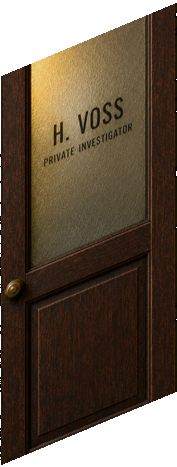
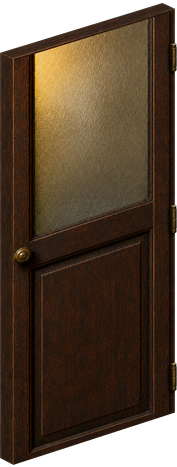
Refine internal office door hinge depth

Changed region(s): [[0.0, 0.0, 1.0, 1.0], [0.7627, 0.6296, 0.791, 0.7495]]

diff --git a/RainShadow Shared/Scenes/DetectiveOffice/DetectiveOfficeScene.swift b/RainShadow Shared/Scenes/DetectiveOffice/DetectiveOfficeScene.swift
@@ -1279,7 +1279,8 @@ final class DetectiveOfficeScene: BaseGameScene {
         occlusionRoot.addChild(void)
     }
 
-    /// Frosted internal door, swung open into the private office. Its sheared
+    /// Plain frosted internal door, swung open into the private office. The
+    /// sprite carries its own hinge barrels and shaded return face; its sheared
     /// texture remains at plate scale so the hinge jamb stays flush with the shell.
     private func addInternalOfficeDoor() {
         guard let door = addDepthProp(

diff --git a/ArtSource/Prompts/GenerationLog.md b/ArtSource/Prompts/GenerationLog.md
@@ -198,6 +198,7 @@ All prompts use the supplied Baldur's Gate-era screenshots as style-analysis ref
 - **Office entrance V10.3 / integrated doorway and floor-projected fall (2026-07-26):** user review found that the separate frame and screen-plane door fall read as a pasted cutout, while the adjacent coat rack resembled oversized bright hinge hardware. A built-in Image Generator edit repainted only the registered doorway crop with slim wall-owned walnut jambs, inner reveal, plaster returns, threshold, and contact occlusion; `process_office_door_architecture_v103.py` feather-bakes the patch into all suite plates and re-punches the approved black aperture. Runtime removes the freestanding frame sprite, adds a generated dark edge extrusion, moves the rack clear, and uses a three-stage projective warp plus restrained floor shadow for the falling leaf. Exact prompt and asset chain: `Prompts/office_door_integrated_v103.md`.
 - **Office entrance leaf V10.4 / complete top rail (2026-07-26):** review correctly identified that the closed leaf looked sliced off at the top. The V10.2 master was substantially taller than the approved 2.2:1 aperture, so cover-fit processing cropped away its top and bottom rails. A built-in Image Generator edit rebuilt the same dark leaf close to the aperture proportion with a complete 6–8% walnut top rail and preserved H. VOSS lettering. Processing now normalizes this complete construction without cover-cropping, and the closed registration leaves a six-pixel dark header reveal. Prompt: `Prompts/office_door_complete_top_rail_v104.md`.
 - **Office entrance leaf V10.5 / purpose-built fallen state (2026-07-29):** the projective warp of the upright front elevation still read as a billboard when Lila knocked the door down. The built-in Image Generator used the V10.4 leaf as identity/text authority and the current fallen office capture as camera authority to render a separate face-up floor state with thick walnut stiles and rails, a deeply recessed lower panel, aged knob, bottom/latch thickness, and torn hinge hardware. Chroma removal sampled the border field with soft matte and despill; `process_office_door_fallen_v105.py` produces the centered 768×512 runtime texture. SpriteKit retains the registered upright leaf throughout the fall, swaps to the generated floor projection on impact, and restores the old warp only for the return animation. Prompt: `Prompts/office_door_fallen_v105.md`.
+- **Plain internal door hinge-depth V02 (2026-07-30):** user review found the open internal leaf read as a flat lettered billboard and duplicated the character name already present on the entrance door. The built-in Image Generator preserved the dark walnut/frosted-glass construction while removing every letter, adding a shaded top and right-hand return face, and adding three restrained period brass hinge barrels on the correct knob-opposite edge. Chroma removal used border sampling, soft matte, and despill; the result was fitted back into the exact 177×467 runtime canvas so scene placement, scale, and pathing remain unchanged. Sources: `office_internal_door_leaf_depth_{chroma,rgba,fitted}_v02.png`; prompt: `Prompts/office_internal_door_depth_v02.md`.
 
 - **BG-noir UI chrome V02 (2026-07-27):** full Infinity Engine layout hierarchy with original film-noir materials. Cursor Image Generator masters for left/right HUD rails, 12 action icons, 3 party utilities, portrait bezel v02, dialogue frame v03 + command plate + scrollbar suite v02, inventory frame v02 + 8 slot silhouettes, journal casebook plate v02 + row marker, and shared close box `ui_close_box_noir_v02`. Processed via `process_ui_chrome_v02.py` into `Resources/Art/UI/**`. GDD §11 and AssetManifest §8 updated for painted-chrome contract. Prompt notes: `Prompts/hud_chrome_v02.md`.
 - **BG-noir UI chrome V03 (2026-07-27):** full V03 art regeneration for closer Baldur’s Gate layout weight with original noir materials (gunmetal, smoked leather, oxblood, Art Deco filigree — no franchise frame copy). Style-lock composite plus HUD rails/icons/portrait frame, dialogue plaque `dialogue_outer_frame_overlay_v04` + command plate + scrollbar suite, inventory outer frame + silhouettes, journal casebook + row marker, map top bar, and `ui_close_box_noir_v03`. Processed via `process_ui_chrome_v03.py`. Swift loaders retargeted in ActionBar/PortraitBar/Inventory/Journal/AreaMap/Dialogue. Prompt contract: `Prompts/ui_chrome_v03.md`.

diff --git a/ArtSource/Prompts/office_internal_door_depth_v02.md b/ArtSource/Prompts/office_internal_door_depth_v02.md
@@ -1,0 +1,43 @@
+# Plain internal door with hinge depth V02
+
+- Generated: 2026-07-30
+- Mode: built-in Image Generator edit + chroma-key removal
+- Use case: `precise-object-edit`
+- Runtime asset: `Resources/Art/Props/Office/office_internal_door_leaf.png`
+- Runtime contract: 177×467 RGBA, matching the previous sprite canvas and anchor footprint
+
+## Reference roles
+
+- `RainShadow Shared/Resources/Art/Props/Office/office_internal_door_leaf.png` (pre-V02): edit target, projection, material, and texture authority.
+- User office close-up (`Screenshot 2026-07-30 at 11.16.49 AM.png`): in-game scale and placement authority.
+
+## Final prompt
+
+Use case: precise-object-edit
+
+Asset type: production 2D isometric/dimetric game sprite for the RainShadow detective office
+
+Primary request: Redo only the open internal brown door so it reads as a solid hinged door with real depth instead of a flat billboard. Remove all lettering from the frosted upper pane. Keep it a plain, unmarked period office door.
+
+Subject: The same 1940s dark brown wooden door leaf, same narrow open-door angle, same upper frosted-glass pane, same lower recessed wood panel, and same aged brass round knob. The knob is on the left; therefore the hinge edge is on the right. Add a narrow, clearly shaded wooden return/thickness face along the right hinge edge, a readable top edge thickness, and three small period-correct aged brass hinge barrels/knuckles on the right edge. Hinges must connect naturally into the door stile and project subtly so the pivot side is unmistakable. Use restrained highlights and contact shadows to show volume.
+
+Style/medium: preserve the exact pre-rendered 3D painterly noir game-art style, aged wood grain, warm amber lighting, dimetric/isometric projection, pixel density, and realism of the edit target.
+
+Composition/framing: isolated complete door leaf, full object visible with generous padding; maintain the same tall narrow proportions and perspective/skew as the edit target. Do not add a wall, frame, jamb, floor, room, plaque, or surrounding scenery.
+
+Text: none. Absolutely no letters, names, numbers, signage, or writing anywhere.
+
+Background: perfectly flat solid `#00ff00` chroma-key background for background removal. The background must be one uniform color with no shadows, gradient, texture, reflections, floor plane, or lighting variation. Do not use `#00ff00` on the subject.
+
+Constraints: preserve the existing door design and silhouette closely except for the intentional right-edge depth and hinges; plain frosted/dirty amber glass with no decoration; crisp clean game-sprite edges; no cast shadow outside the object; no watermark.
+
+Avoid: billboard/sign appearance, readable text, signage, oversized decorative hinges, modern hardware, front-on rectangular door, closed door, duplicate knob, door frame, environment, green spill.
+
+## Outputs and fitting
+
+- Chroma master: `Generated/Office/Props/office_internal_door_leaf_depth_chroma_v02.png`
+- Keyed RGBA master: `Generated/Office/Props/office_internal_door_leaf_depth_rgba_v02.png`
+- Fitted source: `Generated/Office/Props/office_internal_door_leaf_depth_fitted_v02.png`
+- Canonical generated + runtime files: `Generated/Office/Props/office_internal_door_leaf.png` and `Resources/Art/Props/Office/office_internal_door_leaf.png`
+
+The built-in chroma helper sampled the border field, applied a soft matte, and despilled the edge. The opaque subject was cropped and Lanczos-fitted back into the exact previous 177×467 canvas (visible bounds y=3…464), preserving the scene anchor and door-scale contract.
